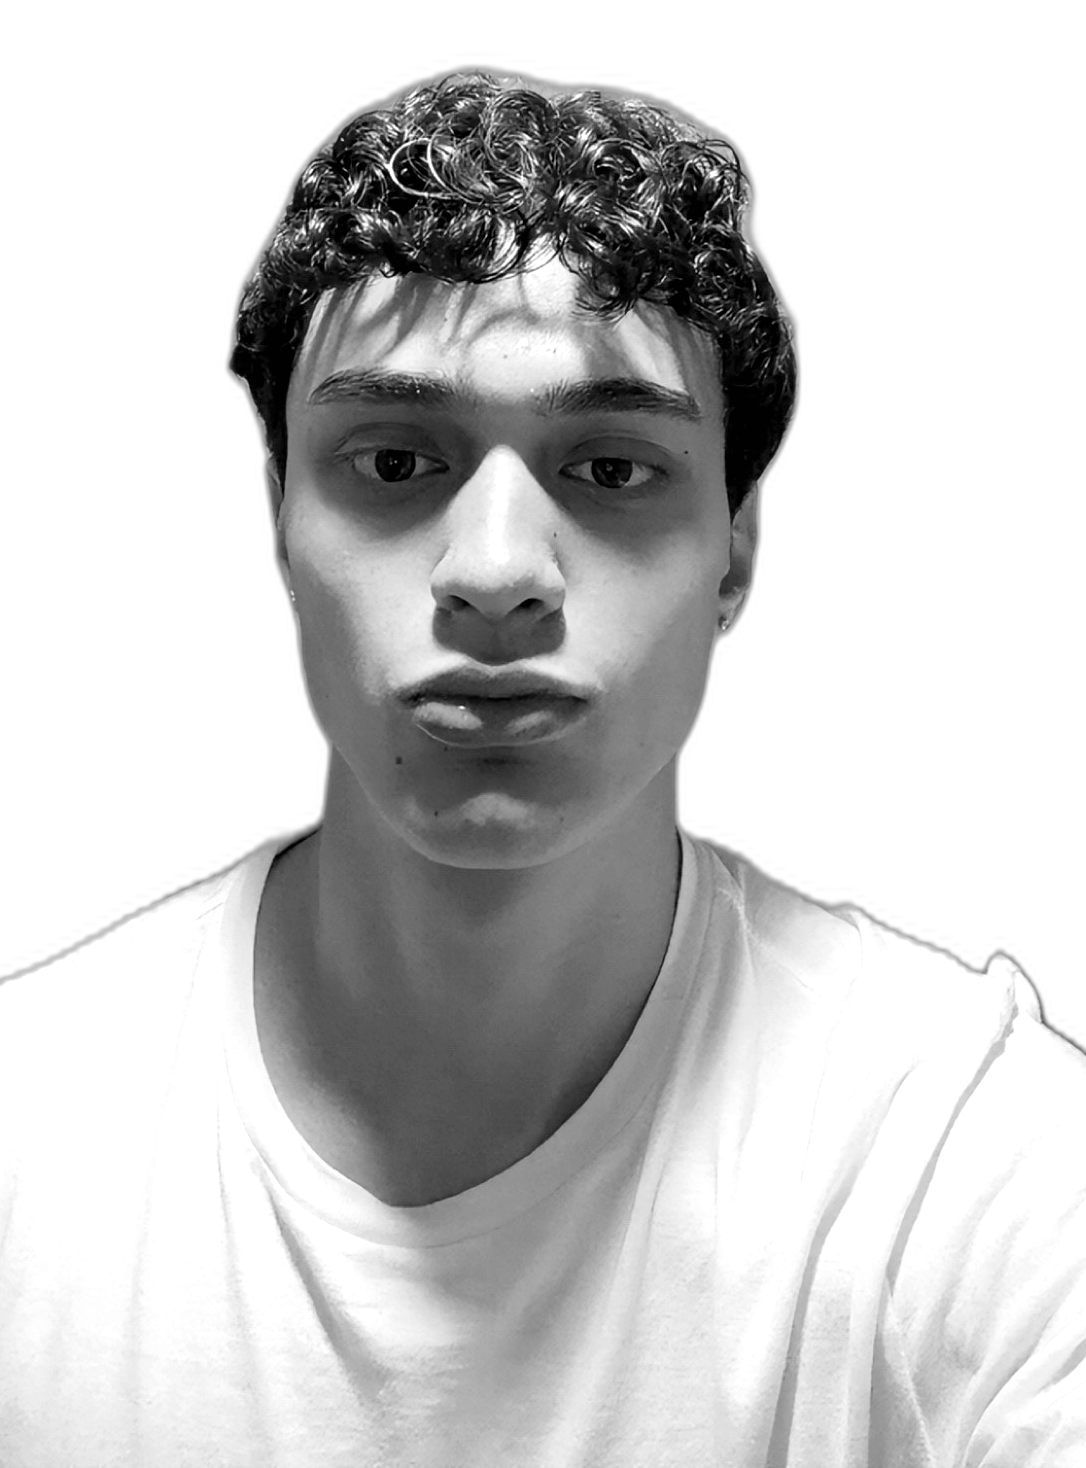
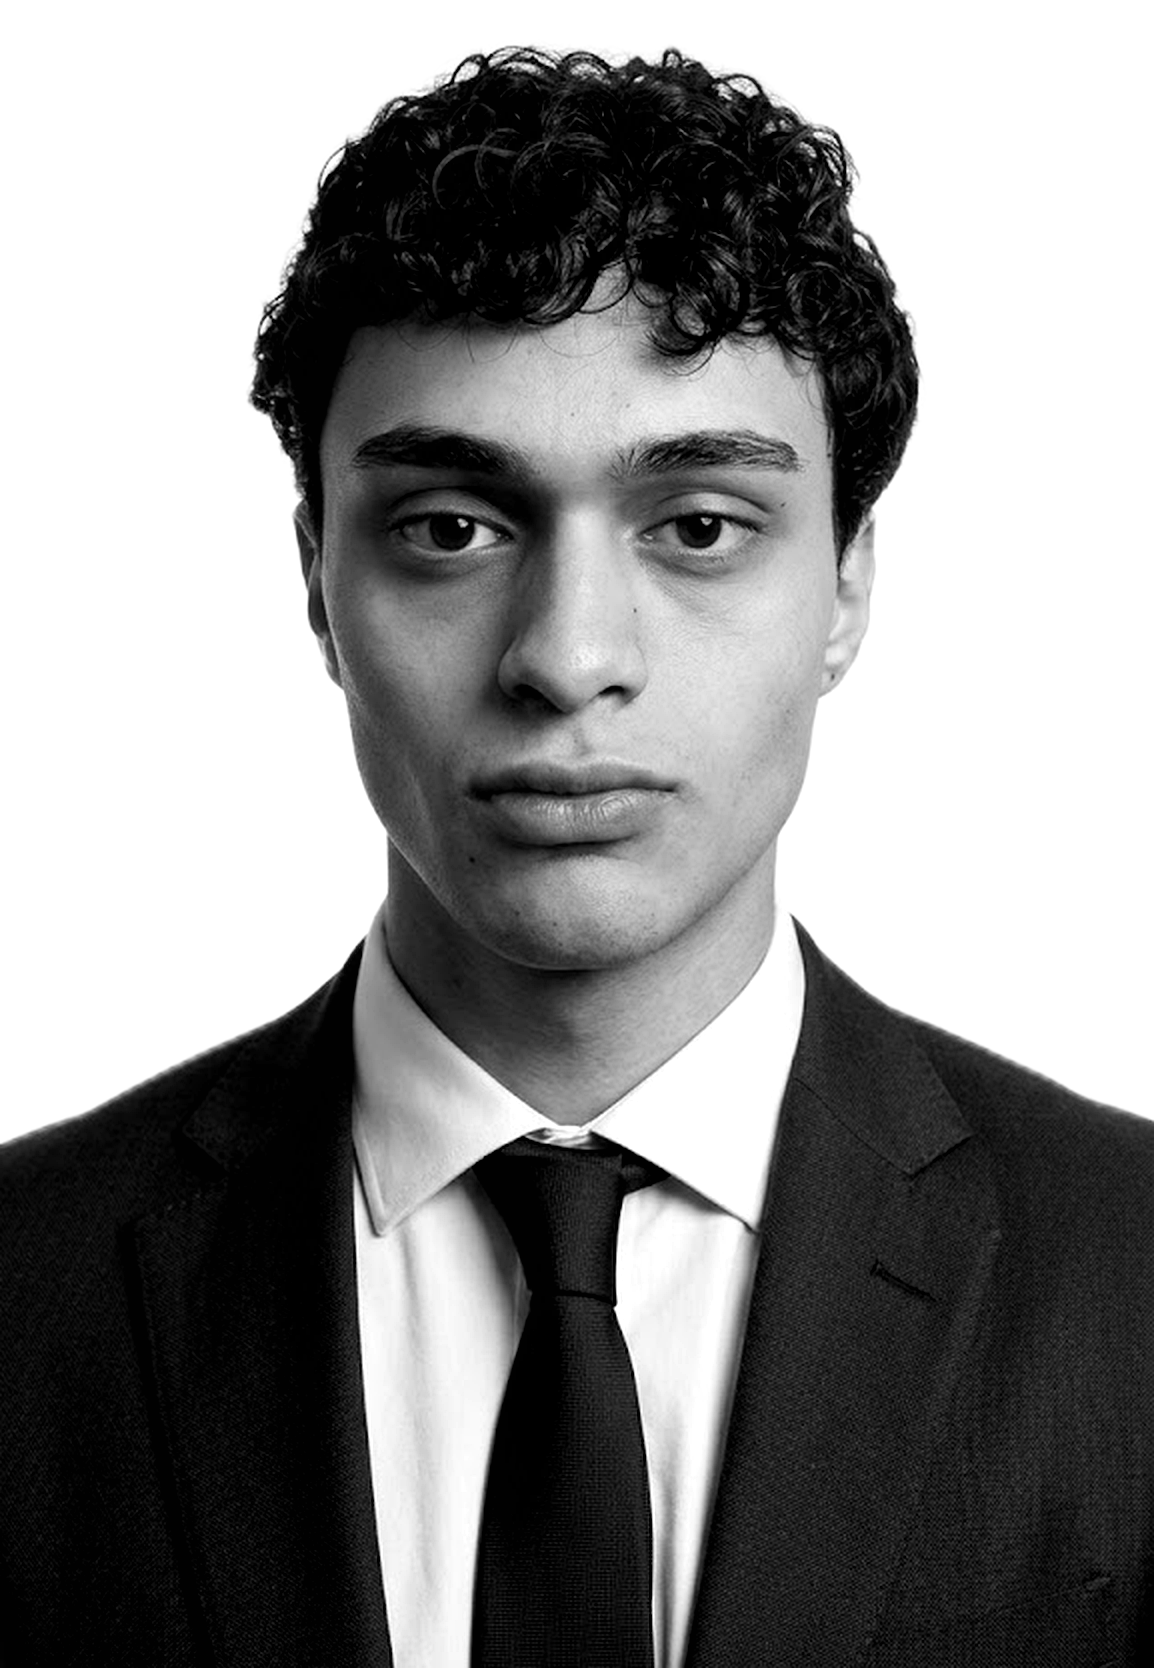
Nuova foto in giacca e cravatta, titolo hero più stretto

diff --git a/style.css b/style.css
@@ -151,6 +151,11 @@ a.work:hover .meta i{background:var(--blue);transform:rotate(45deg)}
 .steps .reveal:nth-child(4){transition-delay:.3s}
 @media (prefers-reduced-motion:reduce){.reveal{opacity:1;transform:none;transition:none}.pill{animation:none}html{scroll-behavior:auto}}
 
+@media (min-width:901px){
+  .hero-copy{max-width:calc(50% - clamp(130px,17vw,220px) - 50px)}
+  h1{font-size:clamp(34px,3.9vw,56px)}
+}
+
 /* mobile */
 @media (max-width:900px){
   .links{display:none}
